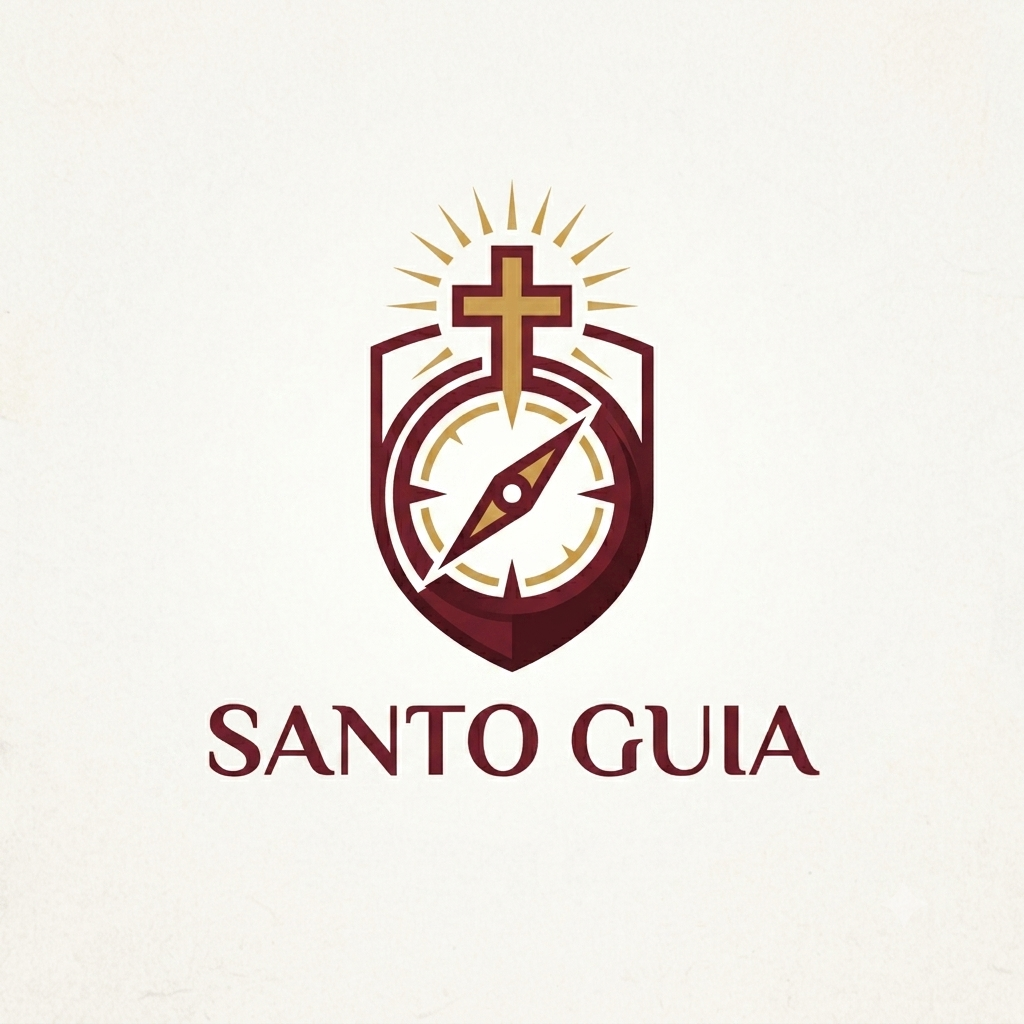
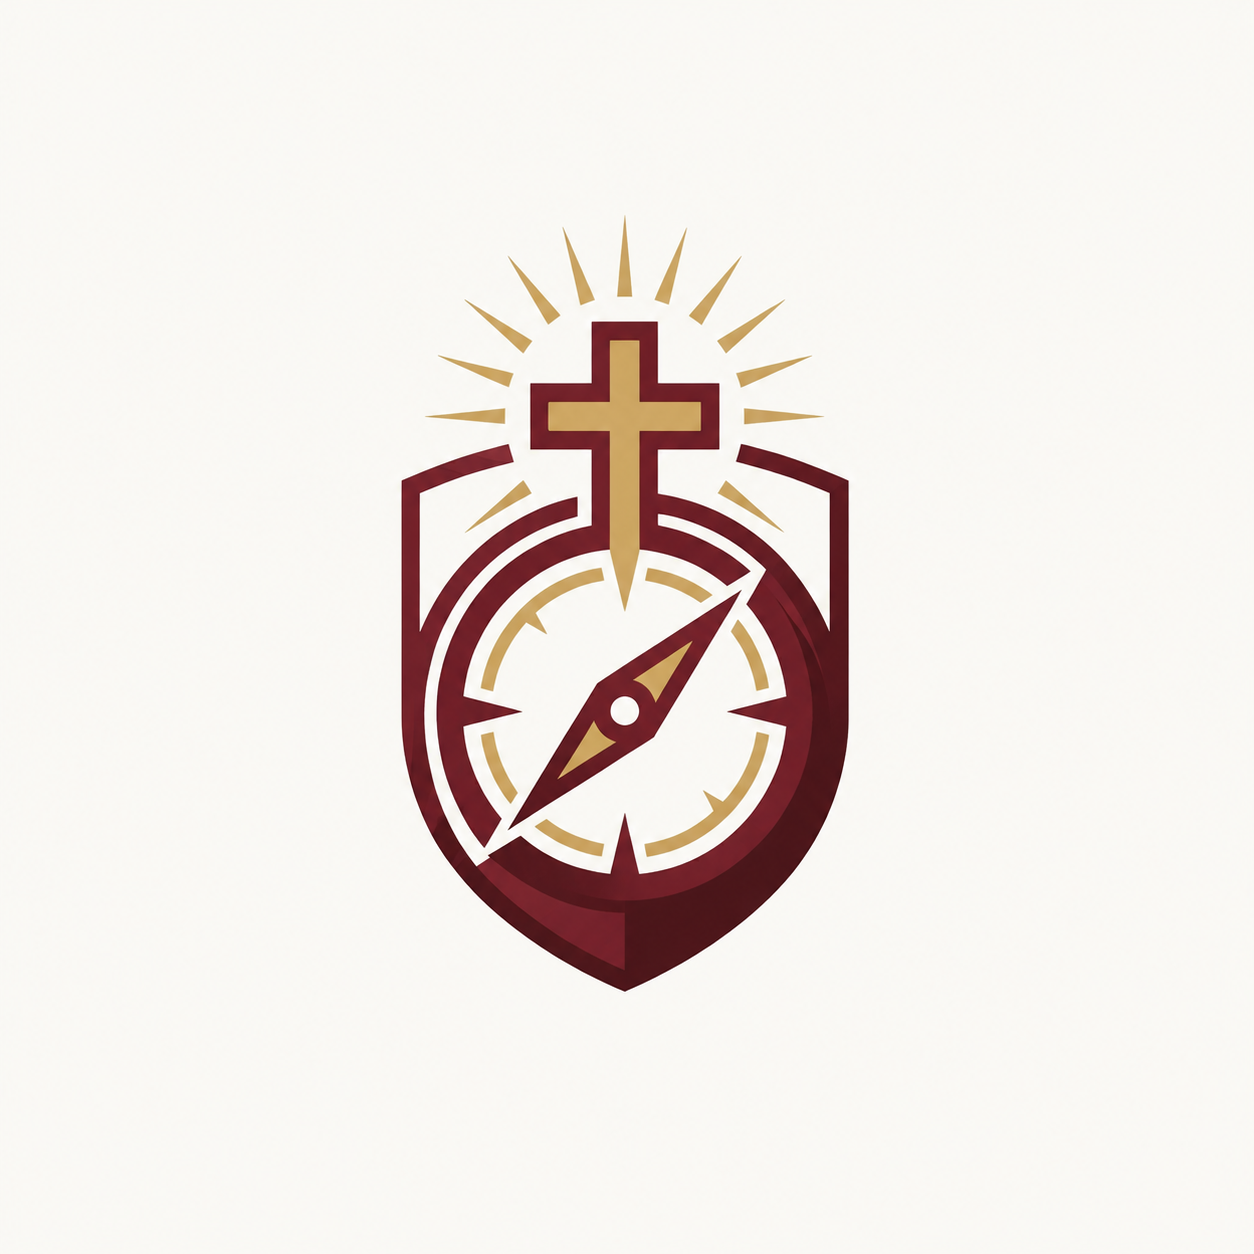
refinando detalhes

Changed region(s): [[0.1875, 0.1875, 0.6875, 0.8125], [0.6875, 0.6875, 0.8125, 0.7812], [0.6562, 0.75, 0.6875, 0.7812]]

diff --git a/src/pages/ProfileScreen.js b/src/pages/ProfileScreen.js
@@ -1,12 +1,18 @@
 import {
-  Alert,
-  Linking,
   Pressable,
   ScrollView,
   StyleSheet,
   Text,
   View,
 } from 'react-native';
+
+import Constants from 'expo-constants';
+
+import socialNetworks
+  from '../constants/socialNetworks';
+
+import openSocialLink
+  from '../utils/openSocialLink';
 
 import {
   Ionicons,
@@ -37,6 +43,8 @@ export default function ProfileScreen({
     isReady,
   } = useFavorites();
 
+  const appVersion =
+    Constants.expoConfig?.version || '0.0.0';
 
   const churchesCount =
     Array.isArray(favorites)
@@ -73,70 +81,7 @@ export default function ProfileScreen({
       );
 
 
-  async function openSocialLink(
-    url
-  ) {
-    try {
-      const supported =
-        await Linking.canOpenURL(
-          url
-        );
-
-      if (!supported) {
-        Alert.alert(
-          'Não foi possível abrir',
-          (
-            'Este endereço não está ' +
-            'disponível no momento.'
-          )
-        );
-
-        return;
-      }
-
-      await Linking.openURL(
-        url
-      );
-    } catch {
-      Alert.alert(
-        'Erro',
-        (
-          'Não foi possível abrir ' +
-          'este endereço.'
-        )
-      );
-    }
-  }
-
-
-  const socialNetworks = [
-    {
-      name: 'Instagram',
-      icon: 'logo-instagram',
-      url:
-        'https://www.instagram.com/missaemteresina',
-    },
-    {
-      name: 'X',
-      icon: 'logo-twitter',
-      url:
-        'https://x.com/missaemteresina',
-    },
-    {
-      name: 'E-mail',
-      icon: 'mail-outline',
-      url:
-        'mailto:[email redacted]',
-    },
-    {
-      name: 'Facebook',
-      icon: 'logo-facebook',
-      url:
-        'https://www.facebook.com/missaemteresina',
-    },
-  ];
-
-
+ 
   return (
     <ScreenContainer>
       <ScrollView
@@ -155,6 +100,10 @@ export default function ProfileScreen({
           Configurações, informações e
           outros recursos do aplicativo
           Santo Guia.
+        </Text>
+
+        <Text style={styles.version}>
+          Versão {appVersion}
         </Text>
 
         <View style={styles.links}>
@@ -434,4 +383,10 @@ const styles = StyleSheet.create({
     fontSize: 16,
     fontWeight: '700',
   },
+  version: {
+  marginTop: SPACING.sm,
+  color: COLORS.textMuted,
+  fontSize: 13,
+  fontWeight: '600',
+},
 });

diff --git a/src/utils/openSocialLink.js b/src/utils/openSocialLink.js
@@ -1,0 +1,49 @@
+import {
+  Alert,
+  Linking,
+} from 'react-native';
+
+
+export default async function openSocialLink(
+  url
+) {
+  try {
+    const supported =
+      await Linking.canOpenURL(
+        url
+      );
+
+    if (supported) {
+      await Linking.openURL(
+        url
+      );
+
+      return;
+    }
+
+
+    if (
+      url.startsWith('https://')
+    ) {
+      await Linking.openURL(
+        url
+      );
+
+      return;
+    }
+
+
+    Alert.alert(
+      'Não foi possível abrir',
+      'Este endereço não está disponível.'
+    );
+
+  } catch (error) {
+
+    Alert.alert(
+      'Erro',
+      'Não foi possível abrir este endereço.'
+    );
+
+  }
+}

diff --git a/src/constants/socialNetworks.js b/src/constants/socialNetworks.js
@@ -1,0 +1,32 @@
+const socialNetworks = [
+  {
+    name: 'Instagram',
+    icon: 'logo-instagram',
+    url:
+      'https://instagram.com/missaemteresina',
+  },
+
+  {
+    name: 'X',
+    icon: 'logo-twitter',
+    url:
+      'https://x.com/missaemteresina',
+  },
+
+  {
+    name: 'E-mail',
+    icon: 'mail-outline',
+    url:
+      'mailto:[email redacted]',
+  },
+
+  {
+    name: 'Facebook',
+    icon: 'logo-facebook',
+    url:
+      'https://facebook.com/missaemteresina',
+  },
+];
+
+
+export default socialNetworks;

diff --git a/src/components/NewsListItem.js b/src/components/NewsListItem.js
@@ -145,7 +145,7 @@ const styles = StyleSheet.create({
     color: COLORS.primary,
     fontSize: 11,
     fontWeight: '700',
-    textTransform: 'capitalize',
+    
   },
 
   title: {